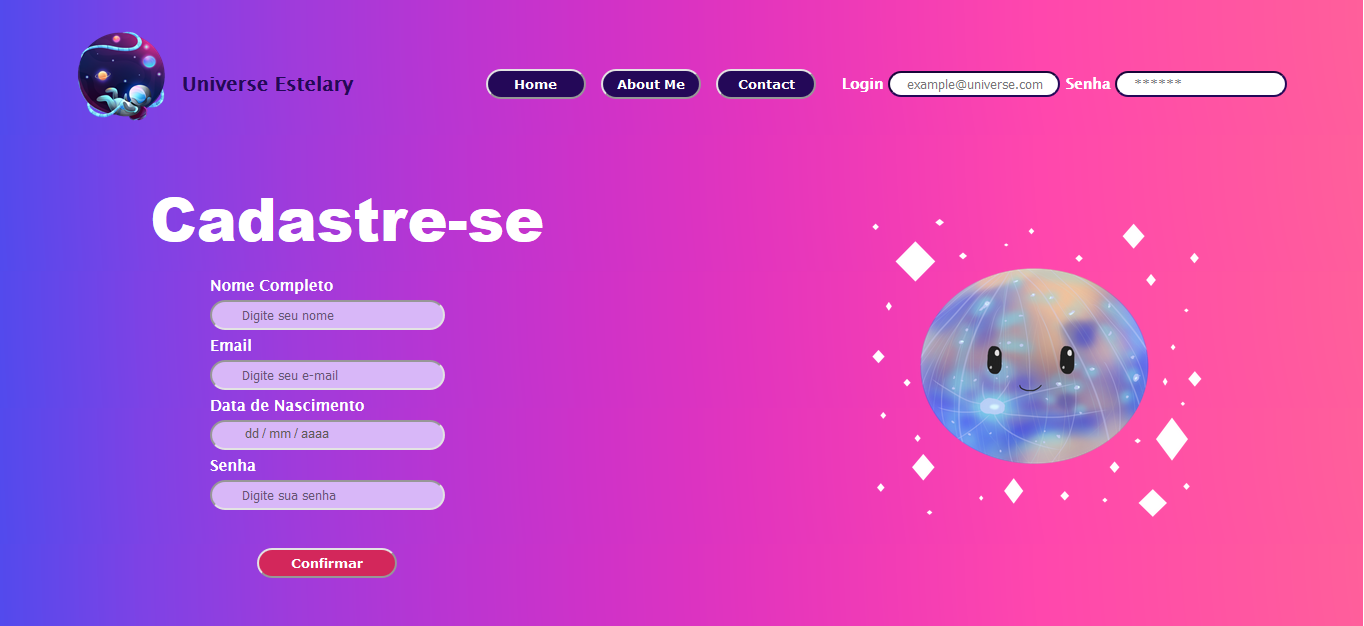
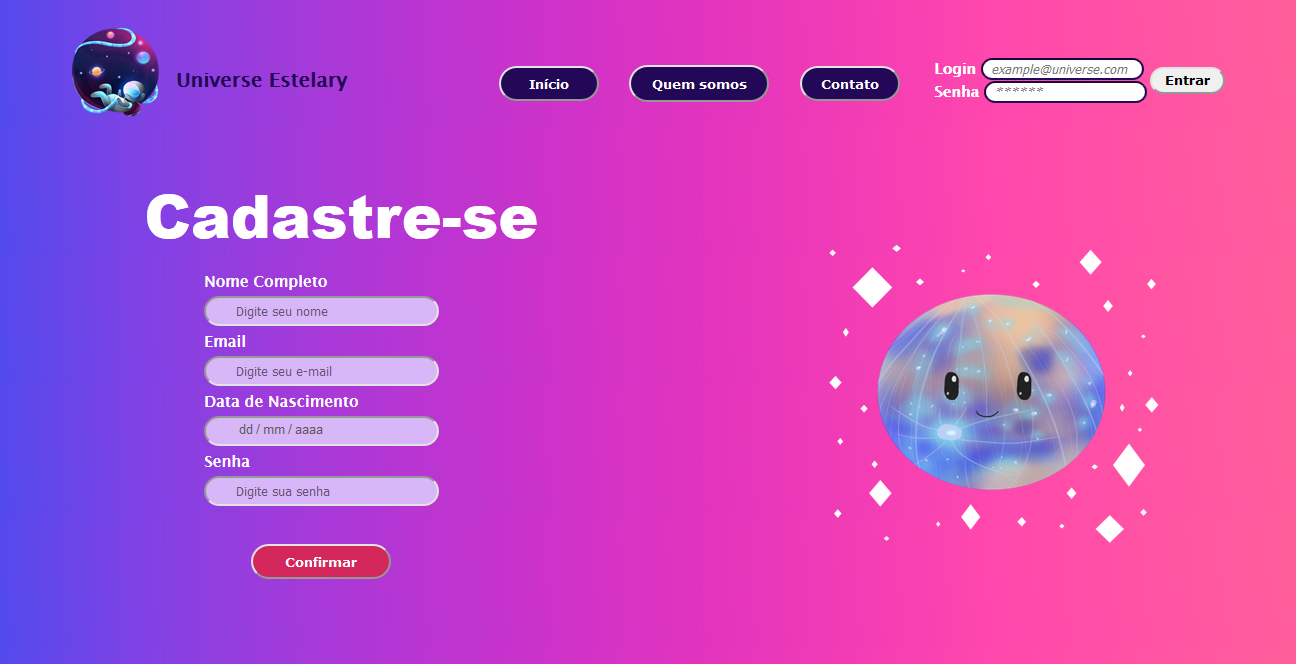
atualiza a pagina cria botao de enviar no login atualiza menu de opcoes para pt-br

diff --git a/styles.css b/styles.css
@@ -23,25 +23,54 @@ header {
 
 button {
     border-radius: 50px;
-    height: 30px;
+    height: 35px;
     width: 100px;
     text-align: center;
     font-family: Verdana, Geneva, Tahoma, sans-serif;
     font-weight: bold;
 }
 
-/*definições especificas dos elementos do@ cabeçalho*/
+/*definições especificas dos elementos do cabeçalho*/
 #logo { 
     position:absolute;
     margin:10px
 }
 
-input.login {
-    width: 150px;
+#divLogin {
+    height: 250px;
+    width: 500px;
+    margin-left: 900px;
+    margin-top: -45px;
+    position: absolute;
+    padding: 0px;
+}
+
+#divmenu {
+    width: 450px;
     height: 20px;
     border-radius: 20px;
-    padding-left: 17px;
+    padding-top: 0px;
+    margin-left: 450px;
+    margin-top: -20px;
     border-color:rgb(36, 8, 88);
+}
+
+button.inicio {
+    margin-top: 1px;
+    margin-left: 15px;
+}
+
+#btnQuemSomos {
+    height: 37px;
+    width: 140px;
+}
+
+
+input.login {
+    border-radius: 25px;
+    font-style: italic;
+    padding-left: 8px;
+    width: 150px;
 }
 
 b.login {
@@ -49,7 +78,14 @@ b.login {
     font-family: 'Lucida Sans Unicode', 'Lucida Grande', 'Lucida Sans', Arial, sans-serif;
     font-weight: bold;
     color: rgb(255, 255, 255);
+}
 
+#btnLogin {
+    margin: -1.3% 80%;
+    width: 75px;
+    height: 27px;
+    text-align: center;
+    position: absolute;
 }
 
 b.header {
@@ -103,7 +139,7 @@ button.inicio {
     color: white;
 }
 
-input.inicio {
+input.inicio, input.login {
     border-color: rgb(36, 8, 88);
 }
 
@@ -129,6 +165,6 @@ button.enviar{
 #circulo { 
     width: 350px;
     height: 300px;
-    margin: 15% 60%; 
+    margin: 18% 60%; 
     position: absolute;
 }

diff --git a/index.html b/index.html
@@ -30,22 +30,27 @@
         
             &nbsp; &nbsp; &nbsp; &nbsp; &nbsp; &nbsp; &nbsp; &nbsp; &nbsp; &nbsp; &nbsp; &nbsp; &nbsp; &nbsp; 
             &nbsp; &nbsp; &nbsp; &nbsp; &nbsp; &nbsp; &nbsp; &nbsp; &nbsp; &nbsp; &nbsp; &nbsp; &nbsp; &nbsp; 
-            &nbsp; &nbsp;
+            &nbsp; &nbsp; &nbsp; &nbsp; &nbsp; &nbsp;
           
             
+            <div id="divmenu">
+            <button class="inicio"> Início </button> &nbsp;
+            <button id="btnQuemSomos" class="inicio"> Quem somos </button> &nbsp; 
+            <button class="inicio"> Contato </button> 
+            </div>
+
+            &nbsp; &nbsp; &nbsp; &nbsp; &nbsp; &nbsp;
             
-            <button class="inicio"> Home </button> &nbsp;
-            <button class="inicio"> About Me </button> &nbsp; 
-            <button class="inicio"> Contact </button> 
-                
-            &nbsp; &nbsp; 
-                
+            <div id="divLogin">
             <b class="login">Login</b> 
             <input class="login" type="email" placeholder="example@universe.com"/>
-      
-           <b class="login">Senha</b>
+            <br>
+            <b class="login">Senha</b>
             <input class="login" type="password" placeholder="******"/>
-            
+            </div>
+
+            <button id="btnLogin" class="login" type="submit">Entrar</button>
+
         </header>
 
         <!--aqui adiciona a imagem do conteúdo-->
